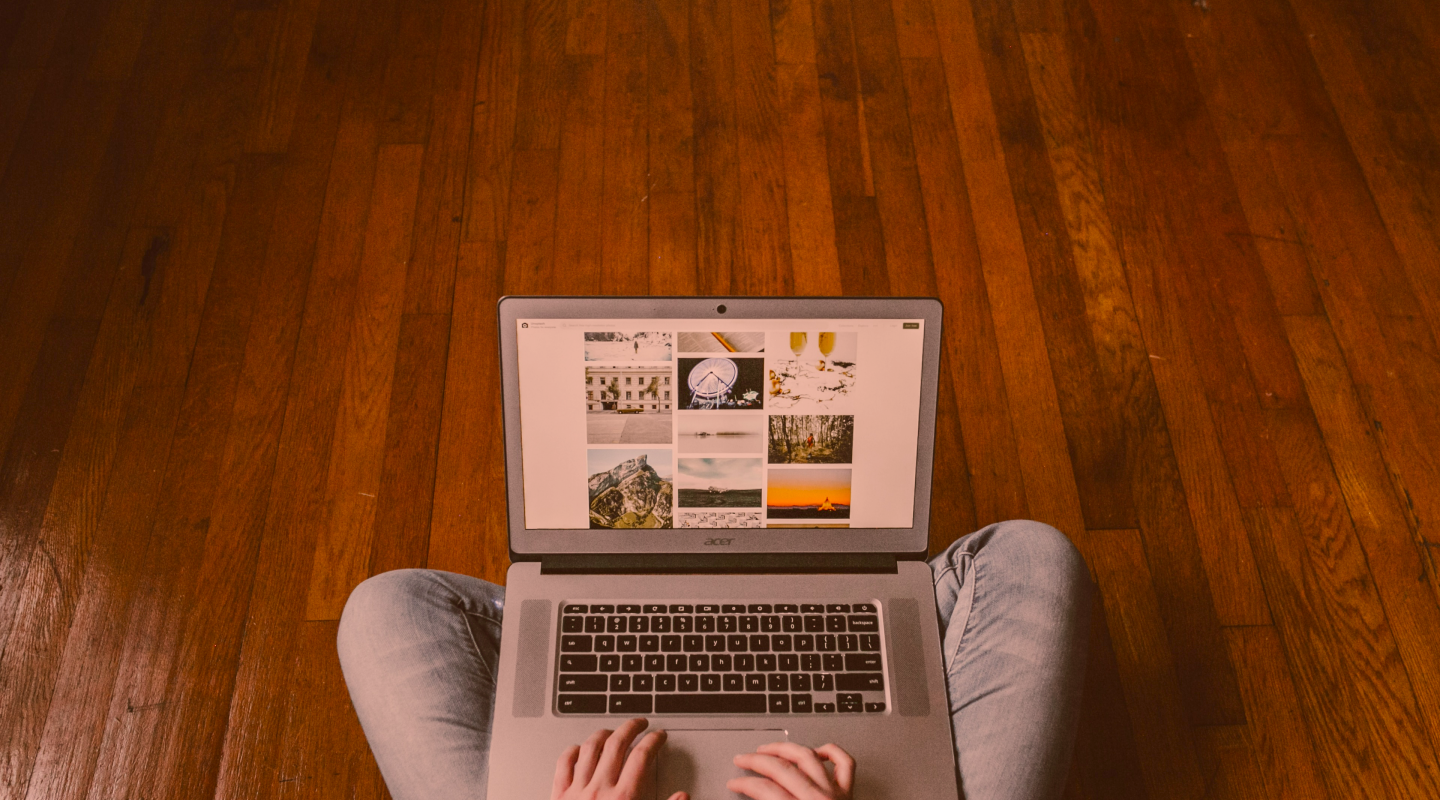
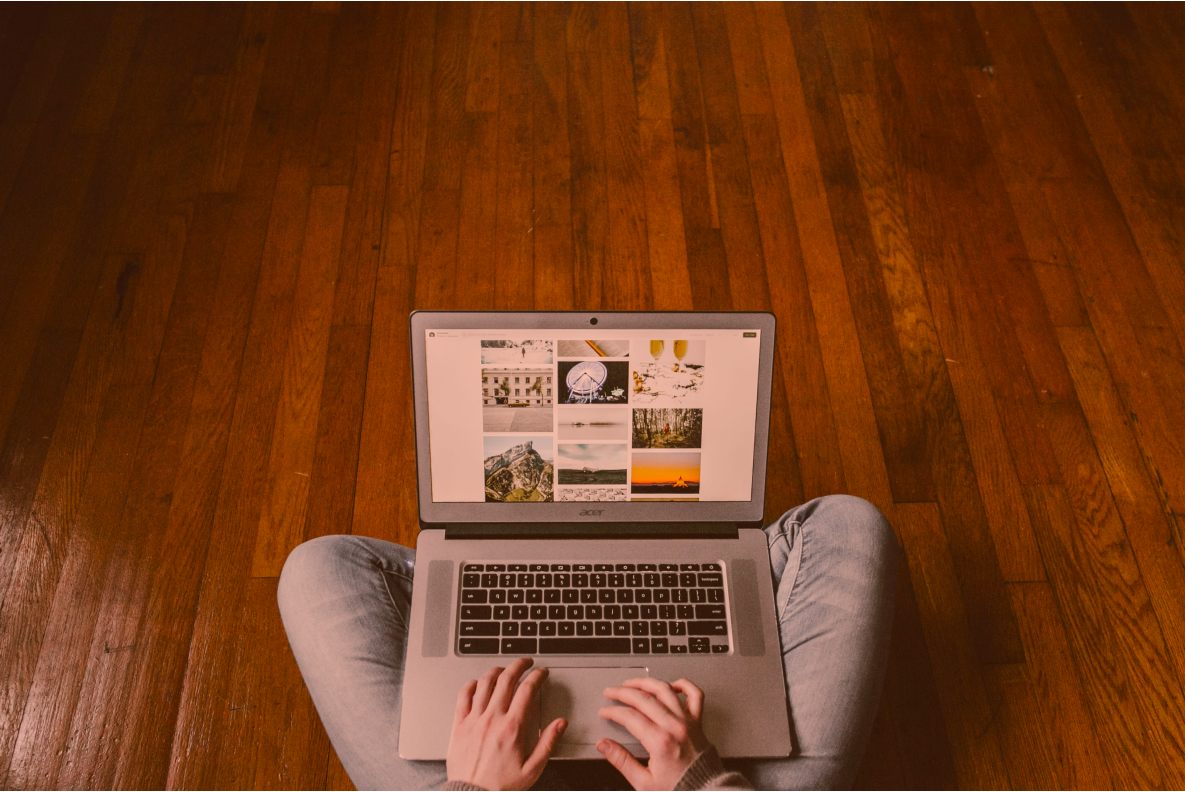
improved background

diff --git a/src/pages/ConsultationPage/Add/Add.scss b/src/pages/ConsultationPage/Add/Add.scss
@@ -1,32 +1,43 @@
 @import "../../../styles/global-imports";
 
 .add {
+  display: flex;
+  align-items: center;
+
   margin-top: 100px;
   background: url("../../../images/consultation/consultation-add.png")  no-repeat center;
   width: 100vw;
+  max-width: 1440px;
   height: 710px;
 
   color: $c-white;
 
-  display: flex;
-  align-items: center;
-
   @include onTablet {
-    background-position: center;
     background-size: auto;
   }
 
   @include onMobile {
     background-position: center;
     background-size: auto;
-    height: 376px;
+    height: 276px;
   }
 
   &--title {
     @extend %italic-text;
+    margin-bottom: 20px;
+
+    @include onMobile {
+      font-size: 25px;
+      line-height: 35px;
+    }
   }
 
   &--text {
     text-wrap: pretty;
+    margin-bottom: 25px;
+
+    @include onMobile {
+      font-size: 16px;
+    }
   }
 }

diff --git a/src/pages/ServicesPage/ServicesPageHead/ServicesPageHead.scss b/src/pages/ServicesPage/ServicesPageHead/ServicesPageHead.scss
@@ -8,16 +8,17 @@
   margin: 0 auto;
 
   width: 100vw;
+  max-width: 1440px;
+
   height: 776px;
-  background: url("../../../images/services/services-head.png") center no-repeat;
-  filter: grayscale(100%) sepia(100%) hue-rotate(340deg);
+  background: url("../../../images/services/services.png") center no-repeat;
+  background-size: cover;
 
   @include onTablet {
     height: 556px;
   }
   
   @include onMobile {
-    background-image: url("../../../images/services/services-head-mobile.png");
     height: 326px;
   }
 

diff --git a/src/pages/ConsultationPage/Head/Head.scss b/src/pages/ConsultationPage/Head/Head.scss
@@ -2,8 +2,11 @@
 
 .head {
   background: url("../../../images/consultation/consultation-head.png")  no-repeat center;
-  background-size: contain;
+  background-size: cover;
+  margin: 0 auto;
   width: 100vw;
+  max-width: 1440px;
+
   height: 710px;
 
   color: $c-white;
@@ -16,9 +19,9 @@
   }
 
   @include onMobile {
-    background-position: center;
-    background-size: auto;
+    background-position: center 10px;
     height: 376px;
+    padding-top: 20px
   }
 
   &--title {
